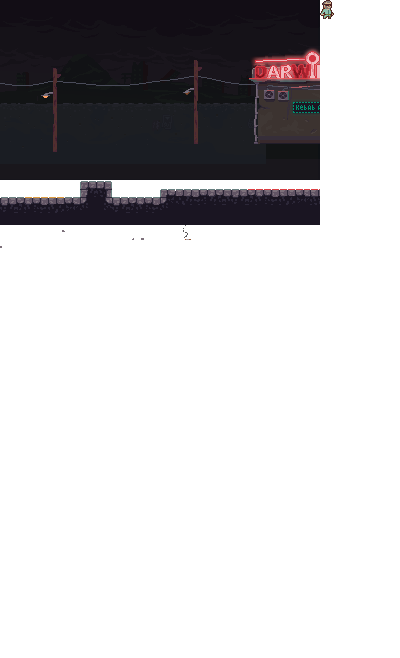
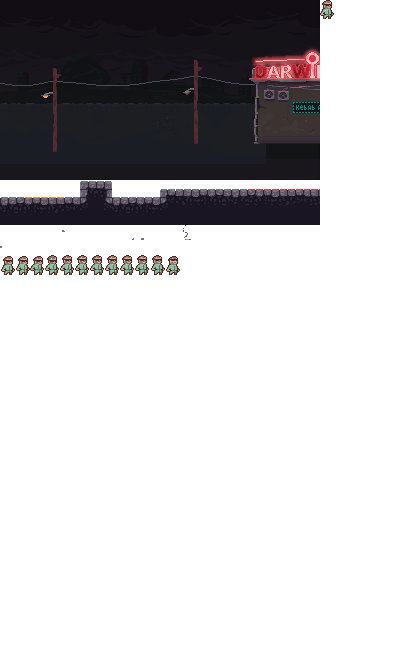
Implement character idle animation

Changed region(s): [[0.0, 0.3647, 0.45, 0.4255]]

diff --git a/src/renderingSystems.cpp b/src/renderingSystems.cpp
@@ -111,14 +111,23 @@ void RenderingSystem::renderSpritesAtLayer(LayerType layer, float renderAlpha)
 
 		Vec2 cameraPosition = LevelManager::getCurrentLevel()->_levelCamera.position;
 
-		_src.x = spriteComponent->offset.x;
-		_src.y = spriteComponent->offset.y;
-		_src.w = spriteComponent->size.x;
+		int32_t currentOffsetX = 0;
+		int32_t frameSizeX = spriteComponent->size.x;
+		bool isAnimatedSprite = spriteComponent->numberOfFrames > 0;
+		if (isAnimatedSprite)
+		{
+			frameSizeX = (spriteComponent->size.x / spriteComponent->numberOfFrames);
+			currentOffsetX = spriteComponent->currentFrame * frameSizeX;
+		}
+
+		_src.x = spriteComponent->atlasOffset.x + currentOffsetX;
+		_src.y = spriteComponent->atlasOffset.y;
+		_src.w = frameSizeX;
 		_src.h = spriteComponent->size.y;
 
 		_dest.x = interpolatedPosition.x - cameraPosition.x;
 		_dest.y = interpolatedPosition.y;
-		_dest.w = spriteComponent->size.x * transformComponent->scale.x;
+		_dest.w = frameSizeX * transformComponent->scale.x;
 		_dest.h = spriteComponent->size.y * transformComponent->scale.y;
 
 		SDL_RenderTexture(s_renderer, loadAtlas(spriteComponent->atlas), &_src, &_dest);
@@ -184,8 +193,8 @@ void RenderingSystem::computeLightsAtLayer(LayerType layer)
 
 		Vec2 cameraPosition = LevelManager::getCurrentLevel()->_levelCamera.position;
 
-		_src.x = spriteComponent->offset.x;
-		_src.y = spriteComponent->offset.y;
+		_src.x = spriteComponent->atlasOffset.x;
+		_src.y = spriteComponent->atlasOffset.y;
 		_src.w = spriteComponent->size.x;
 		_src.h = spriteComponent->size.y;
 
@@ -340,6 +349,40 @@ float calculateHorizontalSpeedMultiplier(MovementComponent* movementComponent)
 	return horizontalSpeedMultiplier;
 }
 
+//TODO: Improve. millisecondsSinceLastFrame is never reset, we set spriteData every time. we should also create another method to handle a random loop time,
+// since the idle for example should loop given a random interval
+
+// We use milliseconds to match what aseprite uses and make it easier to replicate the same animation & speed in game
+void animateSprite(SpriteType targetAnimation, Entity& entityToAnimate, bool loop = false, uint32_t millisecondsToChangeToNextFrame = 70)
+{
+	auto* sprite = getComponentFromEntity<SpriteComponent>(entityToAnimate);
+	sprite->setSpriteData(targetAnimation);
+
+	if (sprite->currentFrame == 0)
+	{
+		millisecondsToChangeToNextFrame = 800;
+	}
+
+	if (sprite->millisecondsSinceLastFrame >= millisecondsToChangeToNextFrame)
+	{
+		int32_t lastFrame = sprite->numberOfFrames - 1;
+		if (sprite->currentFrame == lastFrame)
+		{
+			sprite->currentFrame = loop ? 0 : lastFrame;
+		}
+		else
+		{
+			sprite->currentFrame = min(sprite->currentFrame + 1, lastFrame);
+		}
+
+		sprite->millisecondsSinceLastFrame = 0.f;
+	}
+	else
+	{
+		sprite->millisecondsSinceLastFrame += k_targetMillisecondsBetweenFrames;
+	}
+}
+
 void CharacterMovementSystem::update()
 {
 	Entity& character = getEntityById(k_playerEntityId);
@@ -424,6 +467,11 @@ void CharacterMovementSystem::update()
 
 	// After vertical movement was processed and isGrounded was updated, check coyoteTime
 	handleCoyoteTime(movementComponent, wasGrounded);
+
+	if (!isMovingHorizontally && movementComponent->isGrounded)
+	{
+		animateSprite(CHARACTER_IDLE, character, true);
+	}
 }
 
 void CharacterMovementSystem::processVerticalMovement(Entity* self)

diff --git a/src/renderingComponents.h b/src/renderingComponents.h
@@ -18,44 +18,50 @@ struct SpriteComponent
 		switch (sprite)
 		{
 		case TODO_REMOVE_BG_SPRITE:
-			offset = { 0, 0 };
+			atlasOffset = { 0, 0 };
 			size = { 320, 180 };
 			atlas = GAME_ATLAS;
 			break;
 		case CHARACTER_SPRITE:
-			offset = { 320, 0 };
+			atlasOffset = { 320, 0 };
 			size = { 14, 19 };
 			atlas = GAME_ATLAS;
 			break;
 		case TODO_REMOVE_FG_SPRITE:
-			offset = { 0, 225 };
+			atlasOffset = { 0, 225 };
 			size = { 320, 23 };
 			atlas = GAME_ATLAS;
 			break;
 		case ROUND_LIGHT_SPRITE:
-			offset = { 45, 0 };
+			atlasOffset = { 45, 0 };
 			size = { 95, 86 };
 			atlas = LIGHTS_ATLAS;
 			break;
 		case STREET_LAMP_LIGHT_SPRITE:
-			offset = { 0, 0 };
+			atlasOffset = { 0, 0 };
 			size = { 46, 86 };
 			atlas = LIGHTS_ATLAS;
 			break;
 		case ROUND_SOFT_LIGHT_SPRITE:
-			offset = { 139, 0 };
+			atlasOffset = { 139, 0 };
 			size = { 133, 129 };
 			atlas = LIGHTS_ATLAS;
 			break;
 		case TODO_REMOVE_LEVEL_GEOMETRY_SPRITE:
-			offset = { 0, 180 };
+			atlasOffset = { 0, 180 };
 			size = { 320, 45 };
 			atlas = GAME_ATLAS;
 			break;
 		case TODO_TEMOVE_INVISIBLE_SPRITE:
-			offset = { 336, 0 };
+			atlasOffset = { 336, 0 };
 			size = { 8, 8 };
 			atlas = GAME_ATLAS;
+			break;
+		case CHARACTER_IDLE:
+			atlasOffset = { 0, 255 };
+			size = { 180, 20 };
+			atlas = GAME_ATLAS;
+			numberOfFrames = 12;
 			break;
 		default:
 			D_ASSERT(false, "Unkown sprite type");
@@ -69,12 +75,26 @@ struct SpriteComponent
 		this->layer = layer;
 	}
 
-	IVec2 offset;
+	// TODO: Improve if needed. Currently all animated sprites are expected to be on a single row
+
+	// Starting offset on the atlas
+	IVec2 atlasOffset;
+	// The size of each sprite (or just one if non animated)
 	IVec2 size;
+	// Atlas the sprite(s) belong to
 	AtlasType atlas = GAME_ATLAS;
+	// Sprite type
 	SpriteType sprite = CHARACTER_SPRITE;
+	// The layer where this sprite is rendered on
 	LayerType layer = BEHIND_CHAR_LAYER;
+	// Color used to render this sprite
 	SDL_Color color = { 255, 255, 255, 255 };
+	// 0 for non animated sprites, X for the number of animations
+	int32_t numberOfFrames = 0;
+	// For animated sprites, this changes based on the current frame
+	int32_t currentFrame = 0;
+	// Time in seconds since the lat frame started. Used to change between animation frames
+	float millisecondsSinceLastFrame = 0.f;
 };
 
 struct RectColliderComponent

diff --git a/src/core/app.cpp b/src/core/app.cpp
@@ -45,7 +45,7 @@ void App::update()
     {
         uint64_t currentFrameTimeStamp = SDL_GetTicks();
         uint64_t millisecondsSinceLastFrame = currentFrameTimeStamp - lastFrameTimestamp;
-        millisecondsSinceLastFrame = min(millisecondsSinceLastFrame, k_maxFrameTimeAllowed);
+        millisecondsSinceLastFrame = min(millisecondsSinceLastFrame, (uint64_t)k_maxFrameTimeAllowed);
 
         accumulator += millisecondsSinceLastFrame;
         lastFrameTimestamp = currentFrameTimeStamp;

diff --git a/src/core/lib.h b/src/core/lib.h
@@ -11,7 +11,8 @@ enum SpriteType
 	STREET_LAMP_LIGHT_SPRITE,
 	ROUND_SOFT_LIGHT_SPRITE,
 	TODO_REMOVE_LEVEL_GEOMETRY_SPRITE,
-	TODO_TEMOVE_INVISIBLE_SPRITE
+	TODO_TEMOVE_INVISIBLE_SPRITE,
+	CHARACTER_IDLE
 };
 
 enum LayerType
@@ -70,6 +71,16 @@ inline int32_t clamp(int32_t value, int32_t min, int32_t max)
 	}
 
 	return value;
+}
+
+inline int32_t min(int32_t a, int32_t b)
+{
+	if (a > b)
+	{
+		return b;
+	}
+
+	return a;
 }
 
 inline uint64_t min(uint64_t value, uint64_t max)
